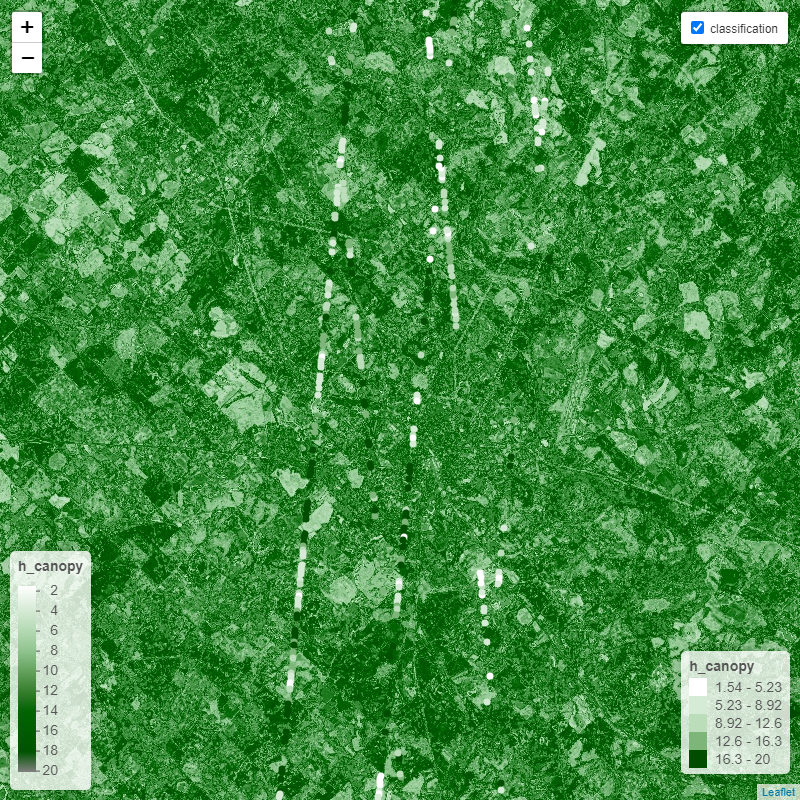
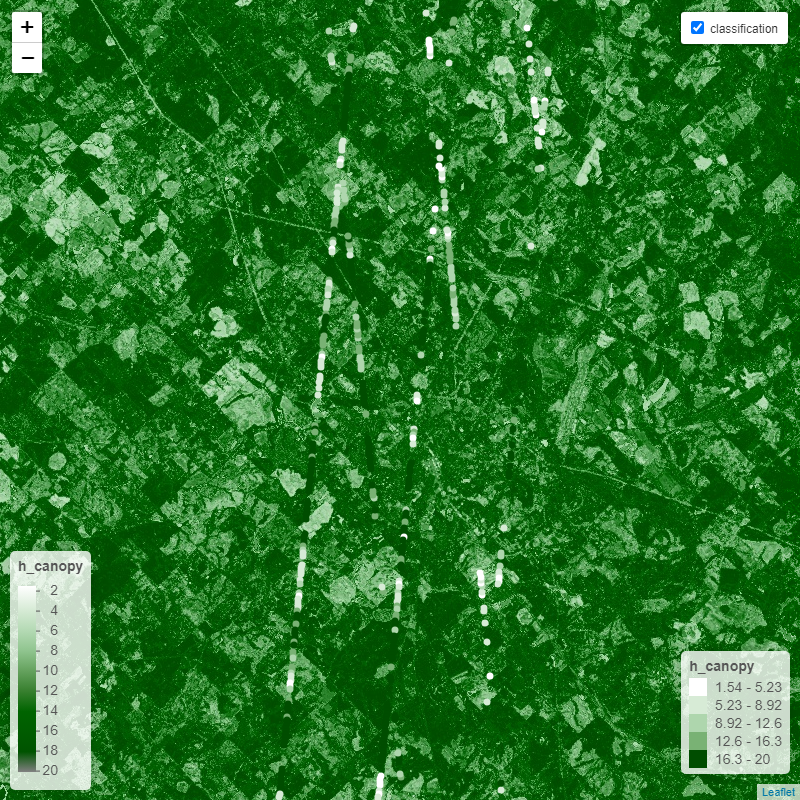
Update figures within readme.md

diff --git a/README.md b/README.md
@@ -23,13 +23,13 @@ for Land and Vegetation Applications in R environment.
 
 Install dependency for rasterizing functions:
 
-    ## Installing package into 'C:/Users/caiohamamura/AppData/Local/Temp/Rtmp86oqED/temp_libpath7fc01b53e91'
+    ## Installing package into 'C:/Users/caiohamamura/AppData/Local/Temp/RtmpQZgPvD/temp_libpath8041c7932b0'
     ## (as 'lib' is unspecified)
 
     ## package 'gdalBindings' successfully unpacked and MD5 sums checked
     ## 
     ## The downloaded binary packages are in
-    ##  C:\Users\caiohamamura\AppData\Local\Temp\RtmpAH0u9E\downloaded_packages
+    ##  C:\Users\caiohamamura\AppData\Local\Temp\RtmpUvaE2c\downloaded_packages
 
 ``` r
 # The r-universe version (recommended for the latest version)
@@ -742,18 +742,18 @@ the Harmonized Landsat Sentinel-2 dataset (hls).
 atl08_seg_dt <- lapply(atl08_h5, ATL08_seg_attributes_dt, attribute = "h_canopy")
 
 atl08_seg_dt <- rbindlist2(atl08_seg_dt)
-head(atl08_seg_dt)
-```
 
-``` r
+# Remove h_canopy values that are above 100m
+atl08_seg_dt <- atl08_seg_dt[h_canopy < 100]
+
 head(atl08_seg_dt)
 ```
 
 latitude longitude beam strong_beam h_canopy <num> <num> <char> <lgcl>
-<num> 1: 31.99992 -83.17574 gt1r TRUE 1.986016e+01 2: 32.04510 -83.18090
-gt1r TRUE 1.364077e+01 3: 32.04600 -83.18101 gt1r TRUE 1.072907e+01 4:
-32.04690 -83.18111 gt1r TRUE 1.140739e+01 5: 32.04780 -83.18121 gt1r
-TRUE 3.402823e+38 6: 32.05626 -83.18217 gt1r TRUE 3.402823e+38
+<num> 1: 31.99992 -83.17574 gt1r TRUE 19.86016 2: 32.04510 -83.18090
+gt1r TRUE 13.64077 3: 32.04600 -83.18101 gt1r TRUE 10.72907 4: 32.04690
+-83.18111 gt1r TRUE 11.40739 5: 32.05770 -83.18234 gt1r TRUE 12.93657 6:
+32.09549 -83.18666 gt1r TRUE 10.39240
 
 ### Visualizing the ‘h_canopy’ for the ATL08 dataset.
 
@@ -765,9 +765,6 @@ terra::plet(atl08_seg_vect, "h_canopy", col = grDevices::hcl.colors(9, "RdYlGn")
 ```
 
 <div align="center" style="display:flex;justify-content:center">
-
-    ## Warning in .get_breaks(out$v, out$breaks, out$breakby, out$range): probable
-    ## complete loss of accuracy in modulus
 
 <img src="figure/atl08_seg_vect_gee_modelling.png" width=500 />
 
@@ -891,20 +888,20 @@ For each segment extract the hls data:
 extracted_dt <- seg_gee_ancillary_dt_extract(hls, atl08_seg_vect)
 ```
 
-    ## Processing 1-983 of 983
+    ## Processing 1-706 of 706
 
 ``` r
 head(extracted_dt)
 ```
 
-| idx | beam |     h_canopy | strong_beam |    red |   green |    blue |     nir |   swir1 |  swir2 |       evi |
-|----:|:-----|-------------:|:------------|-------:|--------:|--------:|--------:|--------:|-------:|----------:|
-|   1 | gt1r | 1.986016e+01 | TRUE        | 0.0316 | 0.05070 | 0.02625 | 0.33685 | 0.14700 | 0.0684 | 0.5739616 |
-|   2 | gt1r | 1.364077e+01 | TRUE        | 0.0929 | 0.08440 | 0.06130 | 0.26820 | 0.36780 | 0.2278 | 0.3208625 |
-|   3 | gt1r | 1.072907e+01 | TRUE        | 0.0836 | 0.07990 | 0.05880 | 0.28860 | 0.33700 | 0.2036 | 0.3798547 |
-|   4 | gt1r | 1.140739e+01 | TRUE        | 0.0998 | 0.08920 | 0.05230 | 0.28910 | 0.35340 | 0.2213 | 0.3164176 |
-|   5 | gt1r | 9.223372e+18 | TRUE        | 0.0509 | 0.06020 | 0.03280 | 0.20580 | 0.15600 | 0.0864 | 0.3060781 |
-|   6 | gt1r | 9.223372e+18 | TRUE        | 0.0810 | 0.08065 | 0.04670 | 0.27750 | 0.27105 | 0.1623 | 0.3476030 |
+| idx | beam | h_canopy | strong_beam |     red |   green |    blue |     nir |   swir1 |   swir2 |       evi |
+|----:|:-----|---------:|:------------|--------:|--------:|--------:|--------:|--------:|--------:|----------:|
+|   1 | gt1r | 19.86016 | TRUE        | 0.03160 | 0.05070 | 0.02625 | 0.33685 | 0.14700 | 0.06840 | 0.5739616 |
+|   2 | gt1r | 13.64077 | TRUE        | 0.09290 | 0.08440 | 0.06130 | 0.26820 | 0.36780 | 0.22780 | 0.3208625 |
+|   3 | gt1r | 10.72907 | TRUE        | 0.08360 | 0.07990 | 0.05880 | 0.28860 | 0.33700 | 0.20360 | 0.3798547 |
+|   4 | gt1r | 11.40739 | TRUE        | 0.09980 | 0.08920 | 0.05230 | 0.28910 | 0.35340 | 0.22130 | 0.3164176 |
+|   5 | gt1r | 12.93657 | TRUE        | 0.06630 | 0.07555 | 0.03915 | 0.35055 | 0.26600 | 0.15005 | 0.4884944 |
+|   6 | gt1r | 10.39240 | TRUE        | 0.17975 | 0.14520 | 0.09220 | 0.29535 | 0.40075 | 0.31370 | 0.1717835 |
 
 ## Fit the randomForest model
 
